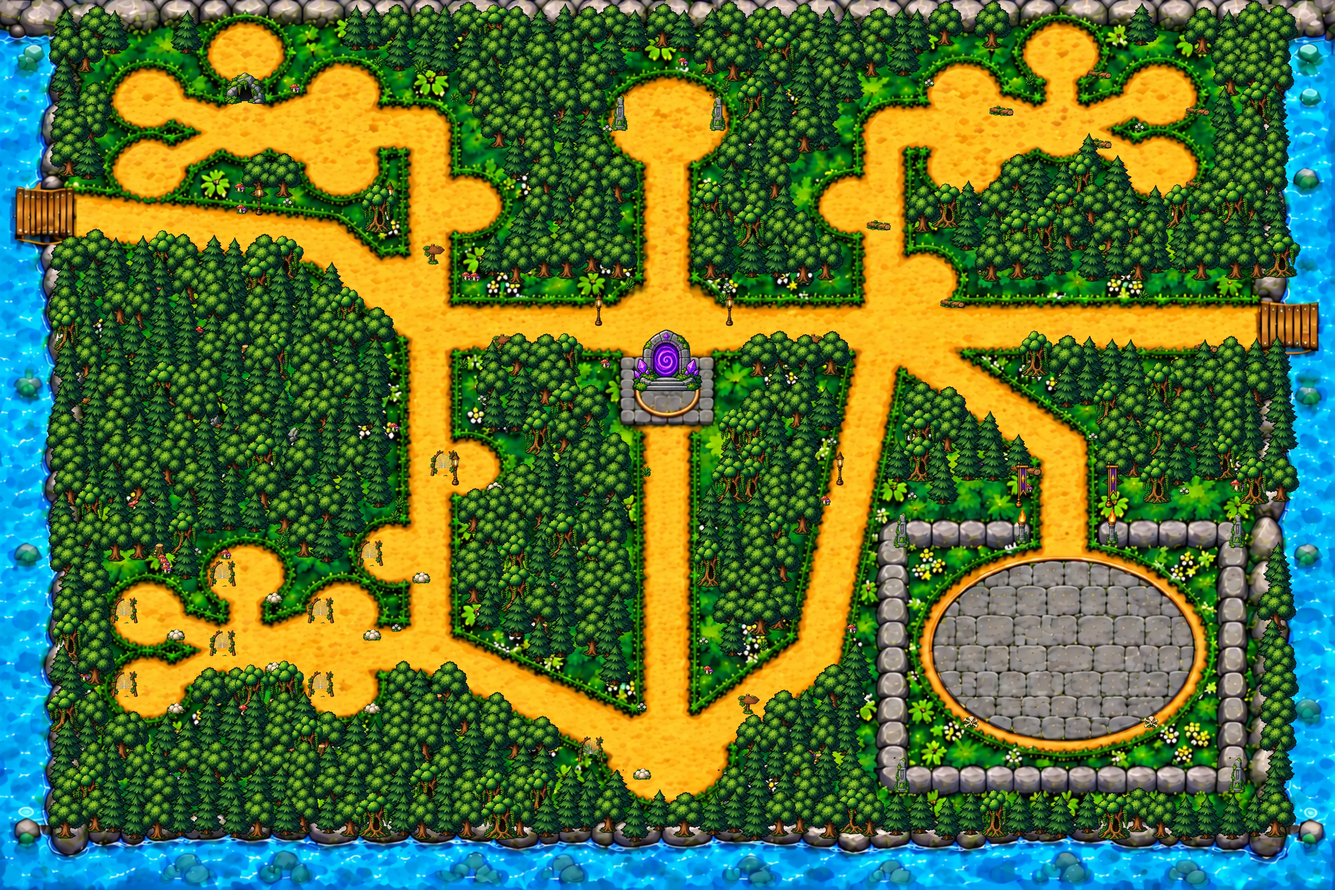
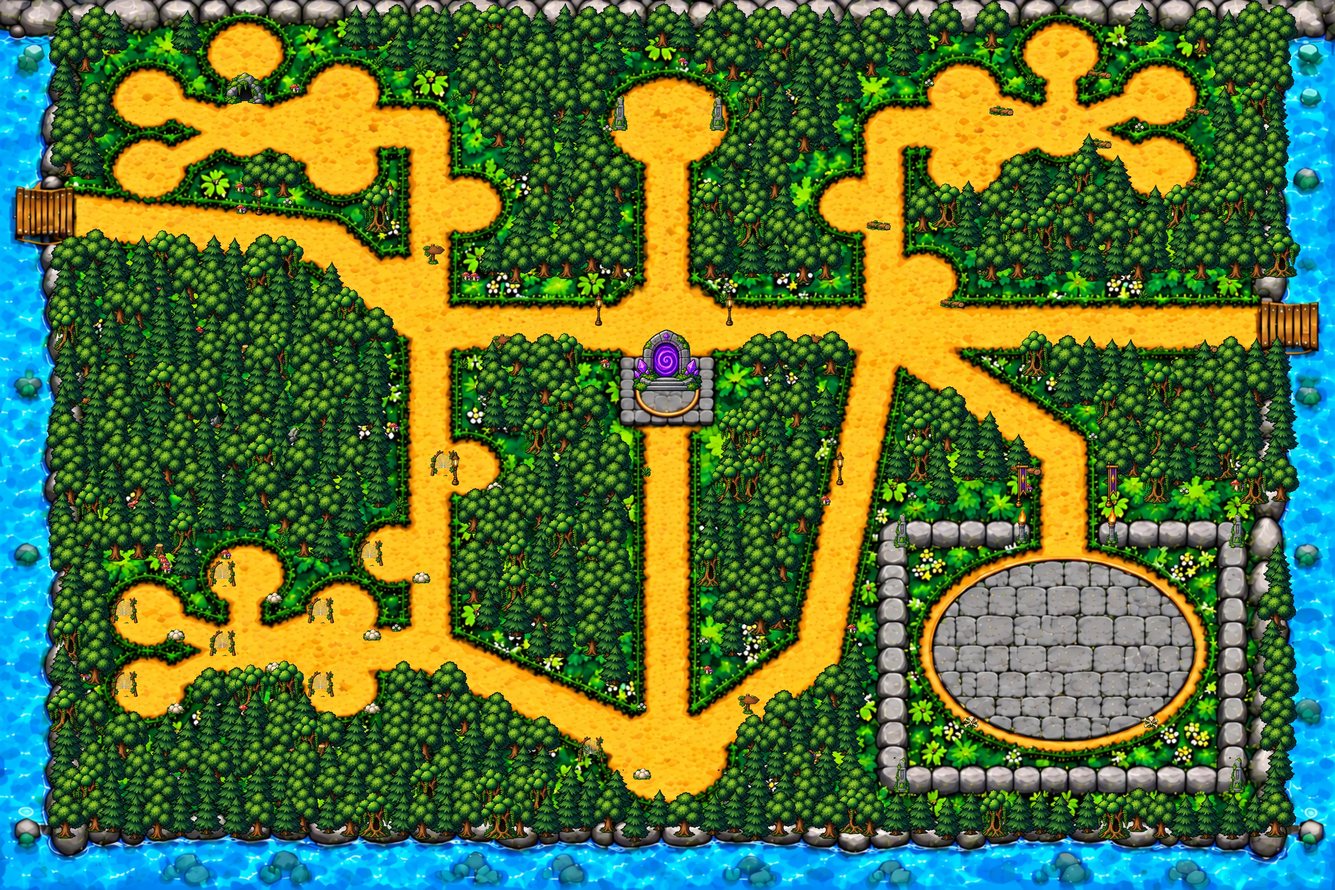
Improve map clarity and render at mobile display density

diff --git a/apps/client/src/main.ts b/apps/client/src/main.ts
@@ -3,6 +3,7 @@ import {generatedSheets,installGeneratedArt} from './generated-art';
 import {woodsMapAssets} from './woods-map';
 import {generatedMonsters} from './monster-assets';
 import Phaser from 'phaser';
+import {displayDensity,displaySize} from './display';
 import {PaperDoll} from './paper-doll';
 import {setupAccounts,type AccountUI} from './accounts';
 import {Client,type Room} from 'colyseus.js';
@@ -18,6 +19,7 @@ import {elderwoodMapAssets} from './elderwood-map';
 let noticeTimer:ReturnType<typeof setTimeout>;
 const notice=(s:string)=>{const element=document.querySelector('#notice')!;element.textContent=s;element.classList.remove('is-quiet');clearTimeout(noticeTimer);noticeTimer=setTimeout(()=>element.classList.add('is-quiet'),5500);};
 class Elderwood extends Phaser.Scene {
+ viewZoom=.85;
  region:RegionId='elderwood';worldObjects:Phaser.GameObjects.GameObject[]=[];portalGlow?:Phaser.GameObjects.Graphics;traveling=false;travelTimer?:ReturnType<typeof setTimeout>;
  usePaperDoll=true;portraitKey='';inventoryRenderKey='';economy=new Economy();bag?:EconomySnapshot;dropViews=new Map<string,Phaser.GameObjects.Container>();shopOpen=false;lastXp=0;
  fxObjects=new Set<Phaser.GameObjects.GameObject>();sim=new CombatSimulation();fighter:Fighter=newFighter();wolfViews=new Map<string,Phaser.GameObjects.Container>();selected='';autoAttack=false;chaseAt=0;
@@ -53,7 +55,7 @@ class Elderwood extends Phaser.Scene {
  this.drawPortraits();
  this.avatar=this.makeAvatar(0xf0cc80,'You');this.bodySprite=this.avatar.getData('sprite');this.avatar.setPosition(this.local.x*64,this.local.y*64);
  if(characterSprite&&this.textures.exists(characterSprite.key)){this.avatar.removeAll(true);this.bodySprite=this.add.sprite(0,0,characterSprite.key).setOrigin(characterSprite.anchor.x,characterSprite.anchor.y).setScale(characterSprite.scale);this.avatar.add(this.bodySprite);for(const [action,directions] of Object.entries(characterSprite.animations))for(const [direction,a] of Object.entries(directions!)){this.anims.create({key:`${action}-${direction}`,frames:a.frames.map(frame=>({key:characterSprite!.key,frame})),frameRate:a.fps,repeat:-1});}}
- this.cameras.main.setBounds(0,0,WORLD.width*64,WORLD.height*64).startFollow(this.avatar,true,.12,.12).setZoom(.85);
+ this.cameras.main.setBounds(0,0,WORLD.width*64,WORLD.height*64).startFollow(this.avatar,true,.12,.12).setZoom(this.viewZoom*displayDensity());
 // Track game keys without global preventDefault: disabling the scene keyboard
  // alone does not stop Phaser from swallowing letters typed into DOM forms.
  this.keys=this.input.keyboard!.addKeys('W,A,S,D,UP,LEFT,DOWN,RIGHT,SHIFT,SPACE,ONE,TWO,THREE,I,E,ESC',false) as typeof this.keys;
@@ -71,7 +73,7 @@ class Elderwood extends Phaser.Scene {
  document.querySelector<HTMLImageElement>('#bag-icon')!.src=bagIconUrl;
  for(const tab of ['profile','settings'])document.querySelector(`#${tab}-tab`)!.addEventListener('click',()=>{for(const name of ['profile','settings']){document.querySelector<HTMLElement>(`#${name}-content`)!.hidden=name!==tab;document.querySelector(`#${name}-tab`)!.setAttribute('aria-selected',String(name===tab));}});
  const sprint=document.querySelector('#sprint')!;sprint.addEventListener('click',()=>{this.sprinting=!this.sprinting;sprint.setAttribute('aria-pressed',String(this.sprinting));sprint.textContent=`Sprint: ${this.sprinting?'on':'off'}`;});
- for(const [id,delta] of [['zoom-in',.1],['zoom-out',-.1]] as const)document.querySelector(`#${id}`)!.addEventListener('click',()=>this.cameras.main.setZoom(Phaser.Math.Clamp(this.cameras.main.zoom+delta,.5,1.5)));
+ for(const [id,delta] of [['zoom-in',.1],['zoom-out',-.1]] as const)document.querySelector(`#${id}`)!.addEventListener('click',()=>{this.viewZoom=Phaser.Math.Clamp(this.viewZoom+delta,.5,1.5);this.cameras.main.setZoom(this.viewZoom*displayDensity());});
  window.addEventListener('blur',()=>{this.touch={x:0,y:0};this.pendingInteraction=undefined;this.route=[];this.input.keyboard?.resetKeys();});
  this.input.keyboard!.enabled=false;this.accounts=setupAccounts(()=>this.reconnectAccount(),()=>this.leaveAccount());
  }
@@ -291,4 +293,5 @@ class Elderwood extends Phaser.Scene {
  (document.querySelector('#stamina') as HTMLMeterElement).value=this.local.stamina;
  }
 }
-export const game=new Phaser.Game({type:Phaser.AUTO,parent:'game',backgroundColor:'#233c38',scale:{mode:Phaser.Scale.RESIZE,width:window.innerWidth,height:window.innerHeight},scene:Elderwood,render:{antialias:true},input:{activePointers:3}});
+export const game=new Phaser.Game({type:Phaser.AUTO,parent:'game',backgroundColor:'#233c38',scale:{mode:Phaser.Scale.FIT,autoCenter:Phaser.Scale.CENTER_BOTH,...displaySize()},scene:Elderwood,render:{antialias:true,roundPixels:true},input:{activePointers:3}});
+window.addEventListener('resize',()=>{const {width,height}=displaySize();game.scale.setGameSize(width,height);const scene=game.scene.getScenes(true)[0] as Elderwood|undefined;if(scene)scene.cameras.main.setZoom(scene.viewZoom*displayDensity());});

diff --git a/apps/client/src/display.ts b/apps/client/src/display.ts
@@ -1,0 +1,5 @@
+// Phaser 3 renders one canvas pixel per game unit. Use a larger backing canvas
+// and matching camera zoom so Retina screens keep the same view and hit targets.
+// Cap density at 2 to avoid a 9x fill-rate cost on high-density mobile devices.
+export function displayDensity(){return Math.max(1,Math.min(window.devicePixelRatio||1,2));}
+export function displaySize(){const density=displayDensity();return {width:Math.round(window.innerWidth*density),height:Math.round(window.innerHeight*density)};}

diff --git a/assets/ART_DIRECTION.md b/assets/ART_DIRECTION.md
@@ -14,6 +14,12 @@ Avoid neon lime grass, polished plastic, oversized gold ornament and unrelated
 portrait/icon rendering styles. Keep consistent head/body proportions, camera,
 lighting and material treatment across characters, equipment, props and monsters.
 
+Ground PNGs currently have a 1536×1024 source resolution. Preserve crisp edges
+and broad details when repainting; enlarging their display size does not add
+source detail. The game uses a density-aware backing canvas (up to 2×) with
+matching camera zoom to retain the same field of view and touch coordinates.
+Do not use nearest-neighbor filtering to disguise softness in the painted art.
+
 All repaint batches should reference this same model, retain existing asset
 identities and silhouettes, and preserve alpha. Grounds retain exact geography;
 props retain their registered footprint and baseline. The original uploaded
